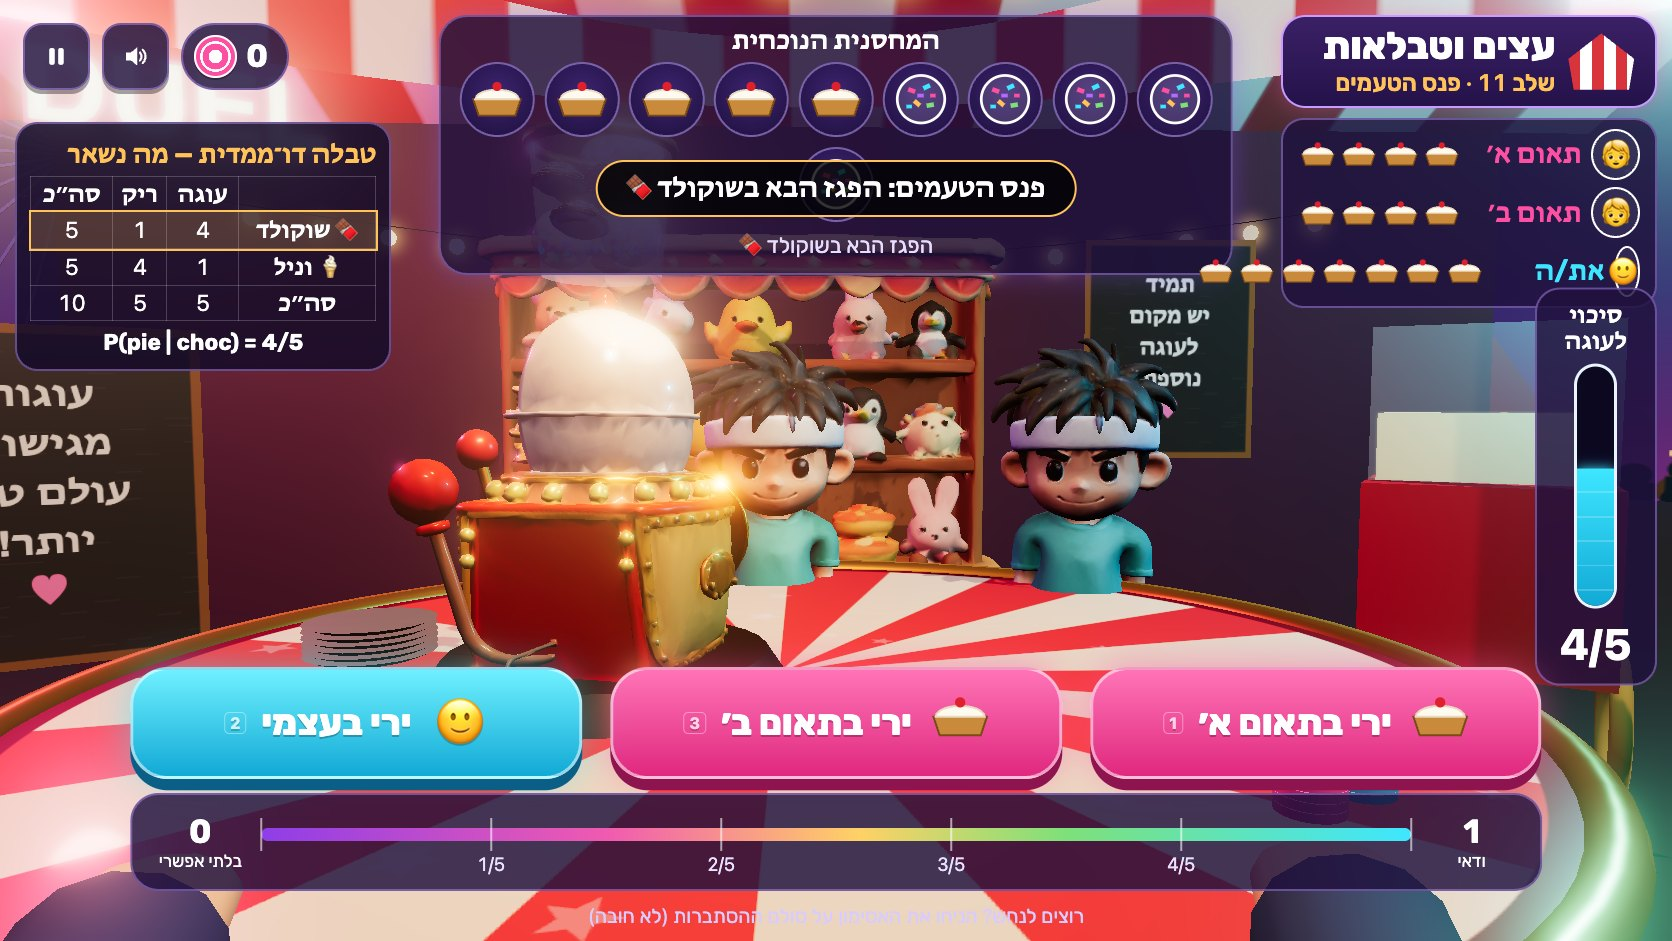
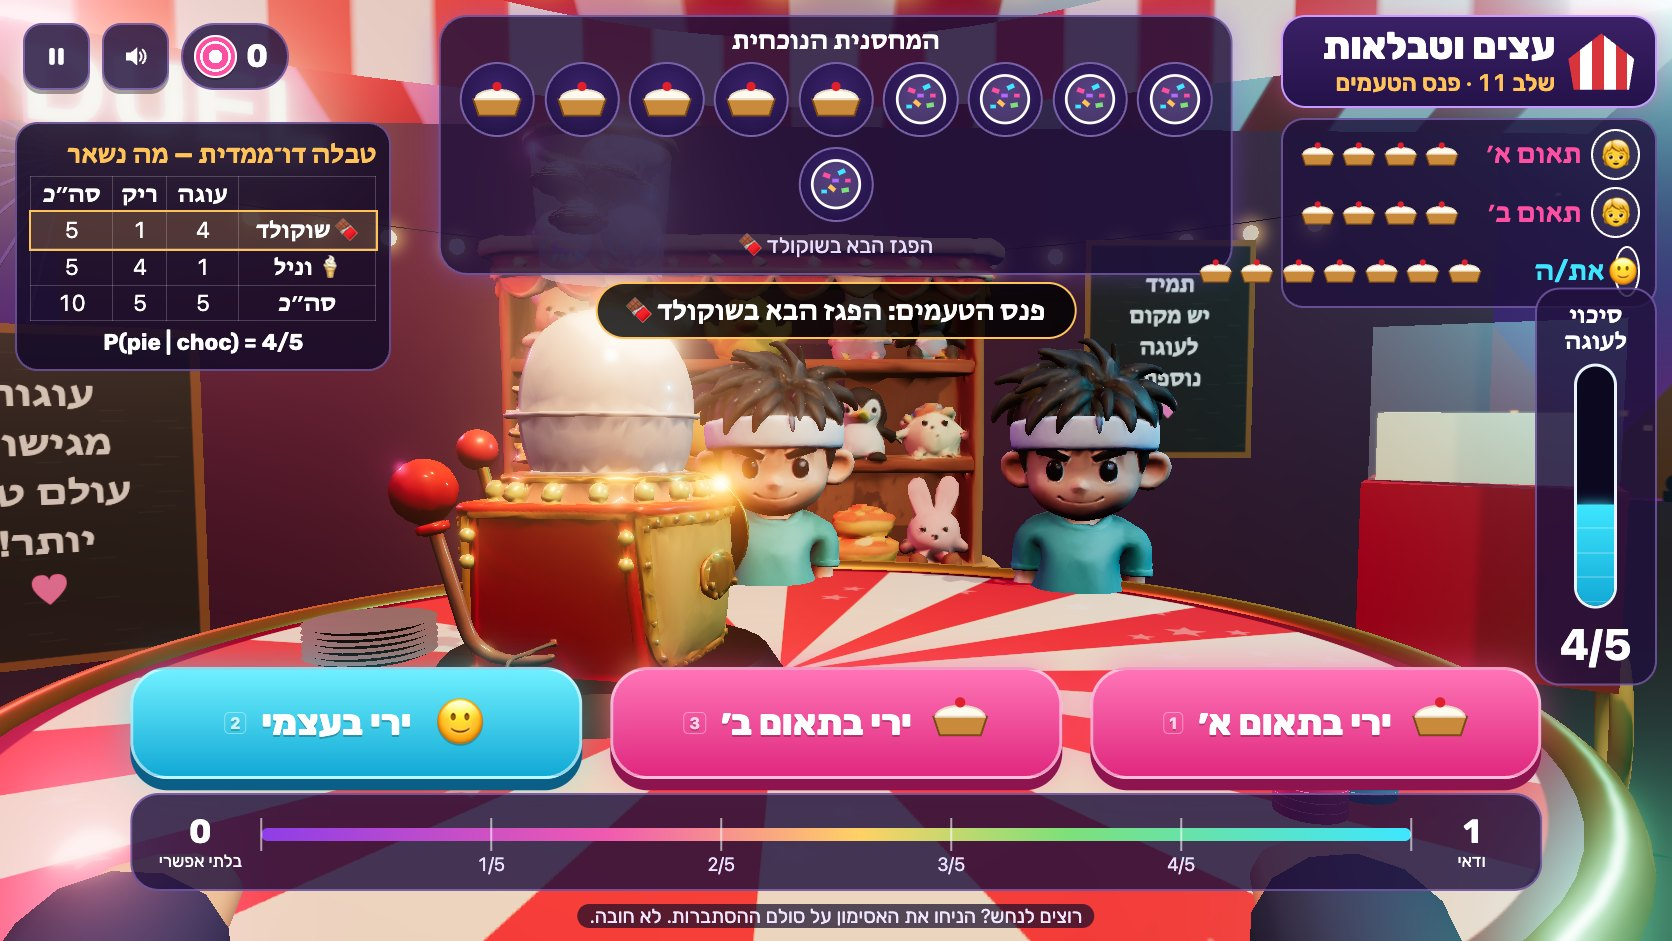
Visual review against the mockups; wheels moved off the rivals' faces

diff --git a/src/scene.ts b/src/scene.ts
@@ -623,21 +623,21 @@ export class Stage {
   private buildWheels() {
     // spinner wheels stand on the table, right of the cannon; shown only for spinner/coin rounds
     this.scene.add(this.wheelGroup);
-    this.wheelGroup.position.set(0.55, TABLE_Y, 0.15);
+    this.wheelGroup.position.set(-0.95, TABLE_Y, 0.3);
+    this.wheelGroup.rotation.y = 0.35;
     for (let i = 0; i < 2; i++) {
-      const w = new THREE.Mesh(new THREE.CircleGeometry(0.22, 48), new THREE.MeshStandardMaterial({ map: wheelFace(1, 4), roughness: 0.5 }));
-      const stand = new THREE.Mesh(new THREE.CylinderGeometry(0.015, 0.03, 0.28, 8), new THREE.MeshStandardMaterial({ color: 0xc8913a, metalness: 0.8 }));
-      stand.position.y = 0.14;
+      const w = new THREE.Mesh(new THREE.CircleGeometry(0.19, 48), new THREE.MeshStandardMaterial({ map: wheelFace(1, 4), roughness: 0.5 }));
+      const stand = new THREE.Mesh(new THREE.CylinderGeometry(0.015, 0.03, 0.18, 8), new THREE.MeshStandardMaterial({ color: 0xc8913a, metalness: 0.8 }));
+      stand.position.y = 0.09;
       const holder = new THREE.Group();
       holder.add(stand);
-      w.position.y = 0.48;
-      w.rotation.y = -0.25;
+      w.position.y = 0.36;
       holder.add(w);
       const pointer = new THREE.Mesh(new THREE.ConeGeometry(0.03, 0.08, 3), new THREE.MeshStandardMaterial({ color: 0xffffff }));
-      pointer.position.set(0, 0.73, 0.01);
+      pointer.position.set(0, 0.58, 0.01);
       pointer.rotation.z = Math.PI;
       holder.add(pointer);
-      holder.position.x = i * 0.5;
+      holder.position.x = i * 0.42;
       shadowsOn(holder);
       this.wheelGroup.add(holder);
       this.wheels.push(w);
@@ -647,7 +647,7 @@ export class Stage {
       new THREE.MeshStandardMaterial({ map: neonSign('A', '#ff4fa3'), metalness: 0.5 }),
       new THREE.MeshStandardMaterial({ map: neonSign('B', '#3ee6ff'), metalness: 0.5 }),
     ]);
-    this.coin.position.set(0.3, TABLE_Y + 0.01, 0.55);
+    this.coin.position.set(-0.55, TABLE_Y + 0.01, 0.75);
     this.coin.visible = false;
     this.scene.add(this.coin);
     this.wheelGroup.visible = false;
@@ -847,7 +847,7 @@ export class Stage {
       (this.wheels[1].material as THREE.MeshStandardMaterial).map = face(b, 'B');
       (this.wheels[1].material as THREE.MeshStandardMaterial).needsUpdate = true;
     }
-    this.wheelGroup.position.x = mode === 'coin' ? 0.32 : 0.55;
+    this.wheelGroup.position.x = mode === 'coin' ? -1.05 : -0.95;
     this.dummy.visible = mode === 'mystery';
   }
 

diff --git a/src/style.css b/src/style.css
@@ -744,7 +744,7 @@ bdi[dir='ltr'] {
 .toast {
   position: absolute;
   left: 50%;
-  top: calc(var(--u) * 17);
+  top: calc(var(--u) * 30);
   transform: translateX(-50%);
   padding: calc(var(--u) * 1) calc(var(--u) * 3);
   border-radius: 999px;

diff --git a/docs/VISUAL_REVIEW.md b/docs/VISUAL_REVIEW.md
@@ -1,0 +1,49 @@
+# Visual review — mockups vs the real game
+
+Targets: `docs/visual-targets/01–05.png` (ChatGPT image generation, 2026-10-30; design targets only, their Hebrew text is unreliable).
+Actual: `docs/captures/*.jpg`, taken by `tests/capture.mjs` in headless Chrome at the mockups' size (1672 × 941), through real clicks and keys, with game time stepped by `window.advanceTime`. Captures are real gameplay, not staged scenes.
+
+| Target | Actual | Moment |
+|---|---|---|
+| `01-first-30s.png` | `01-first-30s.jpg` (+ `00-goal-card.jpg`) | Level 1, first decision: 1 pie + 2 duds, odds meter 1/3 |
+| `02-core-splat.png` | `02-core-splat.jpg`, `02a-dare-bonus-splat.jpg` | The certain pie (1/1) splats Chef Bubu; the dare-bonus pie |
+| `03-fail-self-cream.png` | `03-fail-self-cream.jpg` | Aimed at yourself on 3/4 pies, creamed, worked explanation card |
+| `04-booth-select.png` | `04-booth-select.jpg` | The midway (level select) with progress |
+| `05-card-shop.png` | `05-card-shop.jpg` | Card shop between rounds (level 6) |
+| — | `06`–`10`, `11-mobile-390.jpg` | Flavor light + two-way table, area model, spinner vs Robo-Clown, mystery cannon tests, rooftop final, phone width |
+
+## What matches
+
+- **Camera and composition (01–03):** first-person seat at a round red/cream striped table; Pie-o-Matic at left-centre, rival behind the table at right-centre, prize shelf with plush toys behind, string lights, striped canopy, chalkboard signs, chips on the table, hands at the bottom corners. Same framing in all three.
+- **HUD hierarchy (01–03):** top-left pause / sound / chips; top-centre "המחסנית הנוכחית" with one icon per shell (pies and confetti balls); top-right booth plaque + level, and cream points as pie icons for the rival and you; right-side vertical odds meter "סיכוי לעוגה" with the fraction; bottom: pink "ירי ביריב" and cyan "ירי בעצמי" buttons over the 0 בלתי אפשרי … 1 ודאי probability scale. Same order and colours as the mockups.
+- **Splat (02):** comic "!ספלאט" starburst, cream particles, the rival's rigged `hit_to_head` reaction, camera dolly toward the face, slow motion on the flight.
+- **Failure (03):** cream on the screen edges, the rival laughing (rigged `laugh` clip), a cream ticket card with the big fraction 3/4 and one worked line ("נשארו 3 עוגות מתוך 4 — סיכוי של 3/4 לעוגה, יותר מחצי. עדיף היה לירות ביריב."), a "ממשיכים" button.
+- **Shop (05):** "חנות הקלפים" plaque, three cards with art, description and chip price, big cyan "לסיבוב הבא" button.
+- **Midway (04):** striped stalls with a sign per booth, each rival rendered from its Tripo model, round numbered tokens with stars, the next level highlighted and bobbing, total stars plaque, big pink "!שחקו". Booth 1 is on the right (RTL reading order), unlike the mockup's left-to-right.
+- **RTL typography:** Rubik (bundled), Hebrew right-aligned, every fraction and number in an LTR isolate (no flipped 1/3 or minus signs).
+
+## Differences (honest)
+
+1. **Pie-o-Matic silhouette.** The mockup's horn is a large trumpet bell pointing at the camera-left; the Tripo model has a smaller horn and a white dome with pies baked in. We keep the dome (it reads as frosted glass) and show the real mix in a clear loading jar on top; the HUD counter is the authoritative count. The cannon reads as a contraption, not a weapon.
+2. **Rival scale.** The mockup's Bubu fills a third of the frame; ours is a little smaller and stands behind the table edge (his body is partly hidden). Moving him closer clipped the HUD's hp card.
+3. **Stylisation.** The mockups are painterly with heavy depth of field and dense crowds/Ferris wheel lights; the game uses real-time lighting, bloom and a painted backdrop. The night carnival mood and palette match; the density of background detail doesn't.
+4. **Shell counter.** The mockup shows the shells inside the glass; we show them in the HUD and the loading jar. Order is hidden in both (icons are sorted by kind, never by position).
+5. **Card art.** Mockup cards have painted illustrations; ours use emoji art on coloured cards.
+6. **Big Mo** is the Bubu rig recoloured and scaled (no Tripo budget left for a new model); the mockup shows a sequined showman.
+7. **Chip icon:** we use the pink poker chip from mockup 05 everywhere (mockups 01–04 used a gold coin).
+8. **Twins:** both seats use the same rigged kid model; the second is tinted, so they read as twins but aren't in matching carnival vests.
+
+## Fixed during the review
+
+- Spinner wheels and the coin moved left of the cannon (they hid the Twins' faces) — `08`, `07`.
+- A stale toast from the previous shot showed during the next splat; toasts now clear at every shot.
+- The "−1" badge on the cream-points card was clipped off the right edge; it now sits inside the card.
+- "סבתא רינה" wrapped onto two lines in the hp card; names no longer wrap.
+- Peek card text had a bidi-broken parenthesis; reworded.
+- Cannon enlarged (0.6 → 0.74 m) and the bloom softened so the dome stops blowing out.
+- Mystery wheel no longer shows confetti on every sector (it suggested "all duds"); it now shows neutral "?" sectors.
+- Phone width: the magazine panel moved below the cream-points card.
+
+## Remaining deviations we accept for now
+
+1–8 above. A dedicated Big Mo model and painted card art would close the largest gaps (each needs Tripo credits or more art time).

diff --git a/ASSETS.md b/ASSETS.md
@@ -91,3 +91,12 @@ Generation 30. 18,026 faces. Blank sign board for a procedural Hebrew booth name
 - **`rival-mo.glb` (Big Mo) is missing.** The 8-generation and 3-rig budgets were spent on Bubu, Rina, Robo, the hero props and set pieces, and no rigged asset in the account fits a huge sequined showman. `src/models.ts` already falls back to a stand-in. Options for the lead: (a) with approval, spend 1 generation (30) + 1 rig (20) on this ready prompt: "Full body stylized cartoon game character, Big Mo: a huge, broad, barrel-chested carnival champion showman with a big confident grin, slicked-back black hair and a curly mustache, sparkly gold-and-purple sequined tailcoat jacket with tails, red bow tie, white shirt, black trousers, shiny shoes, big gloved hands. Pixar / Overcooked style, clean bright colors, smooth toy-like materials, game-ready, symmetrical." with T-Pose on, presets idle / laugh_01 / hit_to_head / cheer / defeat; or (b) reuse `rival-bubu.glb` scaled ~1.3× with the jacket recolored to sequined purple/gold (weak, since Bubu is booth 1's rival).
 - No face rig and no wipe-face clip (no preset; an AI animation would have been a 4th animation job).
 - Tripo meshes are single fused meshes (lever, dome and wheel are not separate parts). Anything that moves independently or shows math state should be procedural.
+
+## How the models are used in the game (lead, integration)
+
+- **Rivals** (`rival-bubu`, `rival-rina`, `rival-robo`, `rival-twin`): loaded with `SkeletonUtils.clone`, scaled with `fitHeight`, driven by `THREE.AnimationMixer`. Clips are mapped by name: `idle` (loop), `laugh_*` (taunts, counter-pies, the gambler's "it's due!" moment), `hit_to_head` (every pie in the face), `cheer` (rival wins the match), `defeat_02` (rival loses). Cream blobs stick to the `mixamorig:Head` bone. The Twins load the same GLB twice; the second seat is tinted blue.
+- **Big Mo** (`rival-mo`): no model (generation budget spent). In game he is `rival-bubu` tinted lavender ("sequined") and scaled to 1.85 m, with the same rig and clips. A dedicated model needs one more Tripo generation + rig (prompt below in this file).
+- **Pie-o-Matic**: rotated +90° so the horn faces the swivel's forward axis, scaled to 0.74 m. Its dome has pies baked in, so the real mix is shown procedurally in a clear loading jar on top of the dome (and in the HUD counter). Procedural fallback exists in `src/scene.ts`.
+- **Cream pie**: squashed to 0.6 on y and used for every projectile and counter-pie.
+- **Prize shelf**: behind the rival. **Spinner wheel** and **booth stall**: not used in gameplay (the probability wheels must be exact and are procedural canvas textures); kept for a future midway scene.
+- Procedural (exact math state, never models): the shell counter, odds meter, probability scale, spinner wheels, coin, area model, tree diagram, two-way table and test-fire bar chart.
